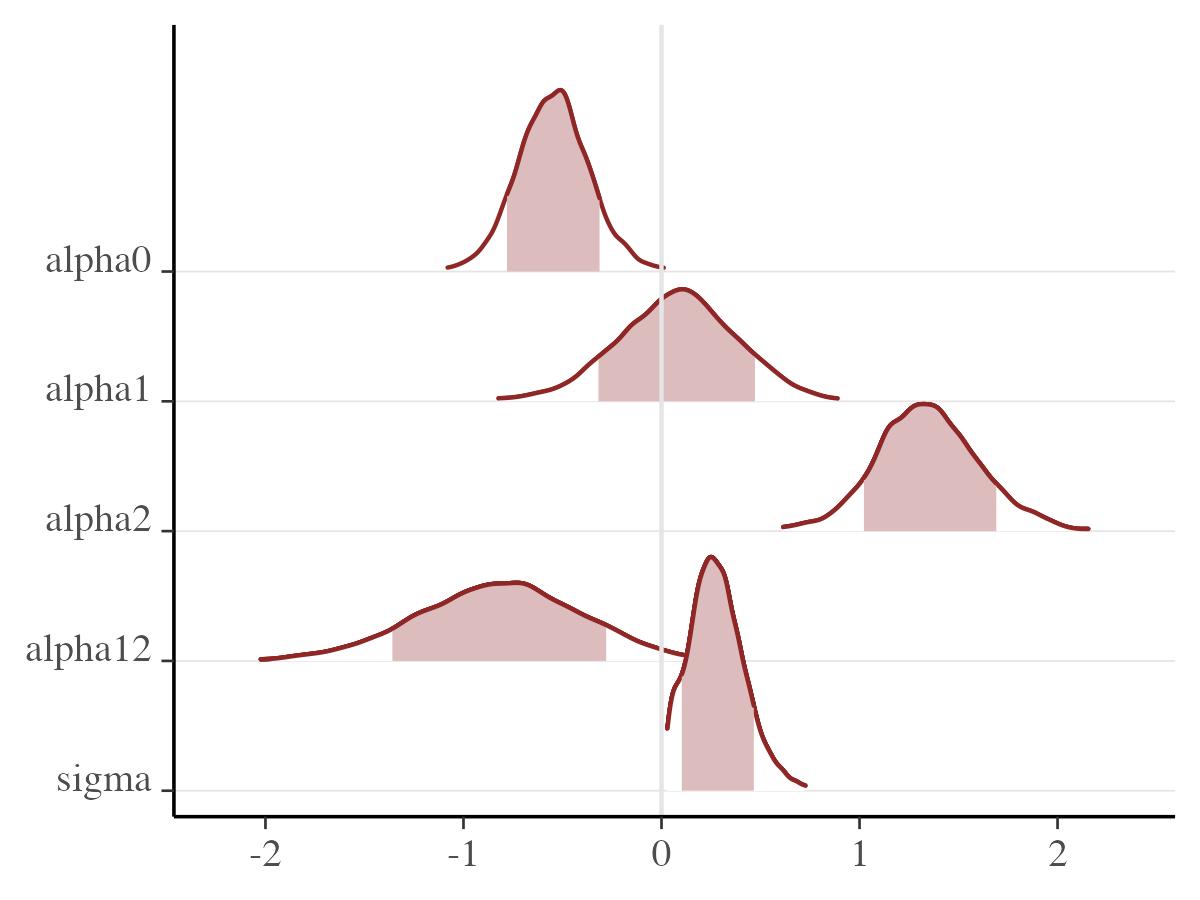
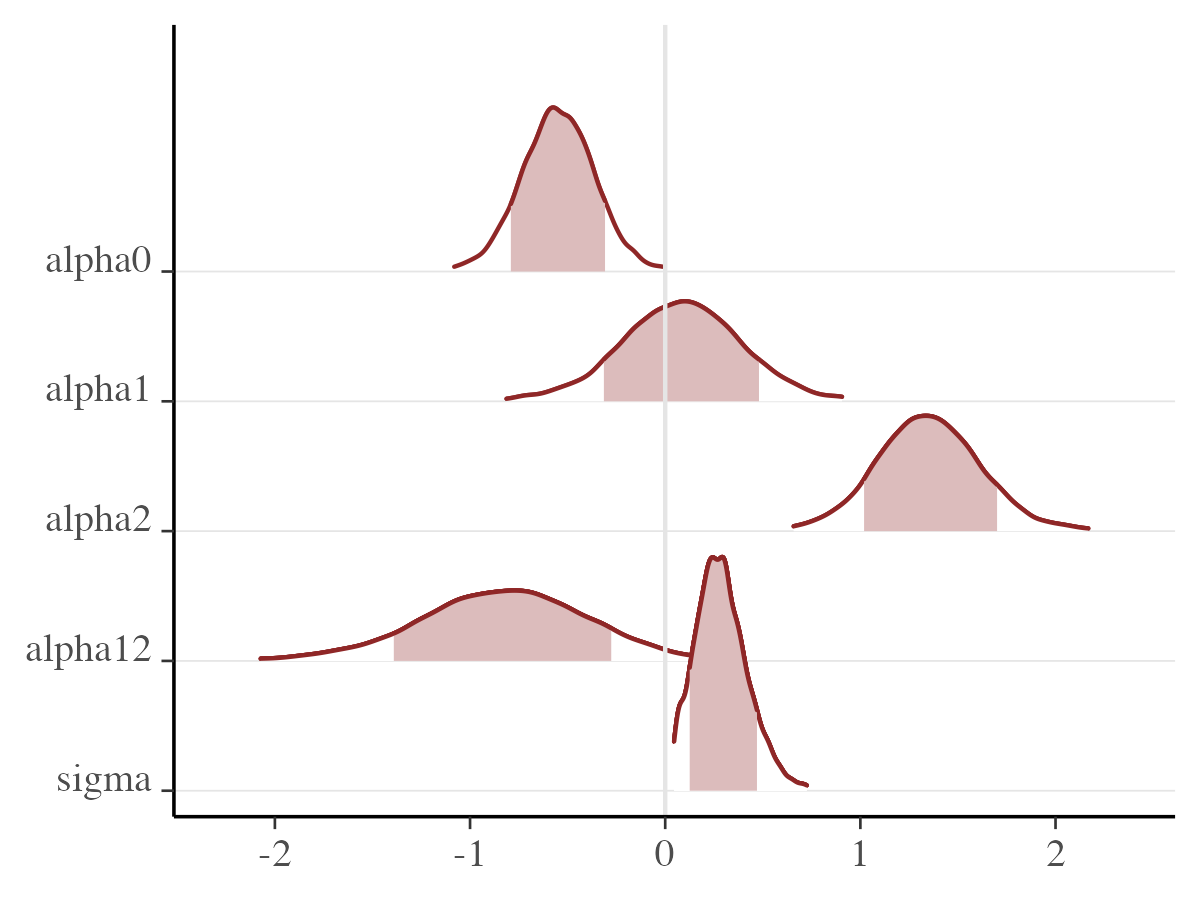
deploy: 0c6e40afa32624b2262fcafe478291f6f4b3cdb5

diff --git a/articles/rjuliabugs.html b/articles/rjuliabugs.html
@@ -260,17 +260,17 @@ through <code>summary</code> function</p>
 <span><span class="co">#&gt; </span></span>
 <span><span class="co">#&gt; Summary Statistics:</span></span>
 <span><span class="co">#&gt; </span></span>
-<span><span class="co">#&gt;  parameters      mean     std     mcse ess_bulk ess_tail  rhat ess_per_sec</span></span>
-<span><span class="co">#&gt;         tau 41.940940 87.1793 5.699638      419    308.6 1.008          NA</span></span>
-<span><span class="co">#&gt;     alpha12 -0.834620  0.4335 0.007639     3235   3536.5 1.001          NA</span></span>
-<span><span class="co">#&gt;      alpha2  1.356999  0.2726 0.005066     2895   3719.4 1.001          NA</span></span>
-<span><span class="co">#&gt;      alpha1  0.088247  0.3138 0.005627     3101   4072.3 1.002          NA</span></span>
-<span><span class="co">#&gt;      alpha0 -0.552476  0.1912 0.003445     3047   4015.7 1.002          NA</span></span>
-<span><span class="co">#&gt;        b[1] -0.189580  0.2613 0.005674     2356   3931.1 1.001          NA</span></span>
-<span><span class="co">#&gt;        b[2]  0.009764  0.2151 0.002889     5621   4389.9 1.002          NA</span></span>
-<span><span class="co">#&gt;        b[3] -0.195885  0.2275 0.005399     1807   4339.2 1.001          NA</span></span>
-<span><span class="co">#&gt;        b[4]  0.271368  0.2559 0.006626     1443   3580.3 1.003          NA</span></span>
-<span><span class="co">#&gt;        b[5]  0.113647  0.2369 0.003854     4098   4057.4 1.001          NA</span></span>
+<span><span class="co">#&gt;  parameters      mean      std      mcse ess_bulk ess_tail  rhat ess_per_sec</span></span>
+<span><span class="co">#&gt;         tau 53.696933 130.7130 10.294010    372.9    199.6 1.011          NA</span></span>
+<span><span class="co">#&gt;     alpha12 -0.820859   0.4362  0.008060   2917.3   2673.4 1.000          NA</span></span>
+<span><span class="co">#&gt;      alpha2  1.352548   0.2722  0.004795   3156.6   3745.0 1.001          NA</span></span>
+<span><span class="co">#&gt;      alpha1  0.081807   0.3108  0.005204   3575.2   4512.5 1.001          NA</span></span>
+<span><span class="co">#&gt;      alpha0 -0.551032   0.1928  0.003369   3243.4   4640.8 1.001          NA</span></span>
+<span><span class="co">#&gt;        b[1] -0.191079   0.2560  0.006095   1853.5   4153.8 1.002          NA</span></span>
+<span><span class="co">#&gt;        b[2]  0.006584   0.2185  0.002816   6101.8   4427.9 1.004          NA</span></span>
+<span><span class="co">#&gt;        b[3] -0.195432   0.2322  0.005599   1769.5   5264.3 1.002          NA</span></span>
+<span><span class="co">#&gt;        b[4]  0.271360   0.2592  0.007637   1081.3   3175.8 1.003          NA</span></span>
+<span><span class="co">#&gt;        b[5]  0.114370   0.2387  0.004012   3729.1   4514.1 1.001          NA</span></span>
 <span><span class="co">#&gt;          ...</span></span>
 <span><span class="co">#&gt;   17 rows omitted</span></span></code></pre></div>
 <p>If we wish to obtain the summary statistics for each saved parameter,
@@ -381,7 +381,7 @@ package:</p>
 <span></span>
 <span><span class="co"># Example: effective sample size</span></span>
 <span><span class="fu">posterior</span><span class="fu">::</span><span class="fu"><a href="https://mc-stan.org/posterior/reference/ess_basic.html" class="external-link">ess_basic</a></span><span class="op">(</span><span class="va">posterior</span><span class="op">$</span><span class="va">params</span><span class="op">[</span>,,<span class="st">"alpha0"</span><span class="op">]</span><span class="op">)</span></span>
-<span><span class="co">#&gt; [1] 3082.306</span></span></code></pre></div>
+<span><span class="co">#&gt; [1] 3274.095</span></span></code></pre></div>
 </div>
 <div class="section level2">
 <h2 id="saving-and-loading-the-rjuliabugs-model">Saving and loading the <code>rjuliabugs</code> model<a class="anchor" aria-label="anchor" href="#saving-and-loading-the-rjuliabugs-model"></a>
